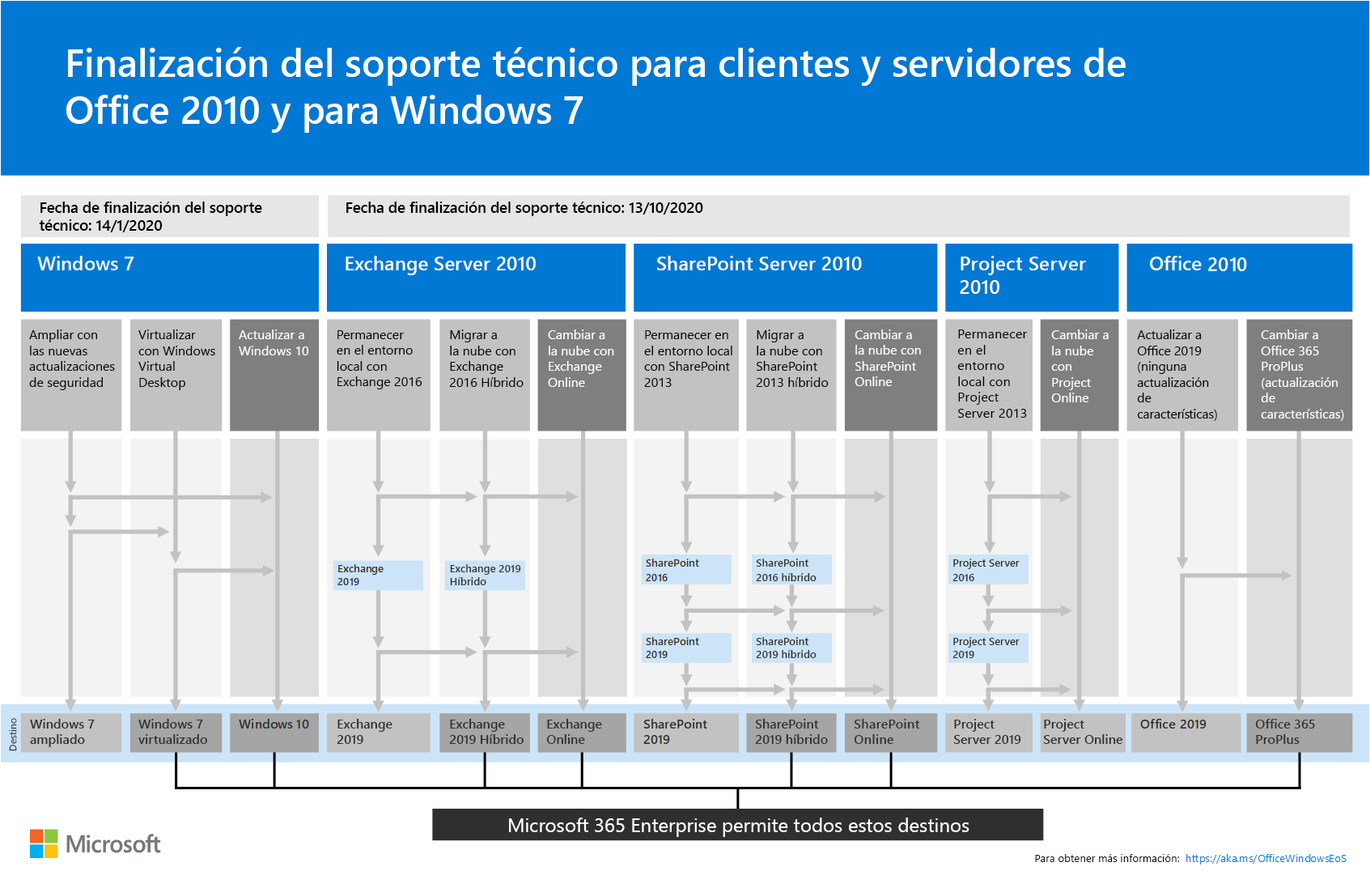
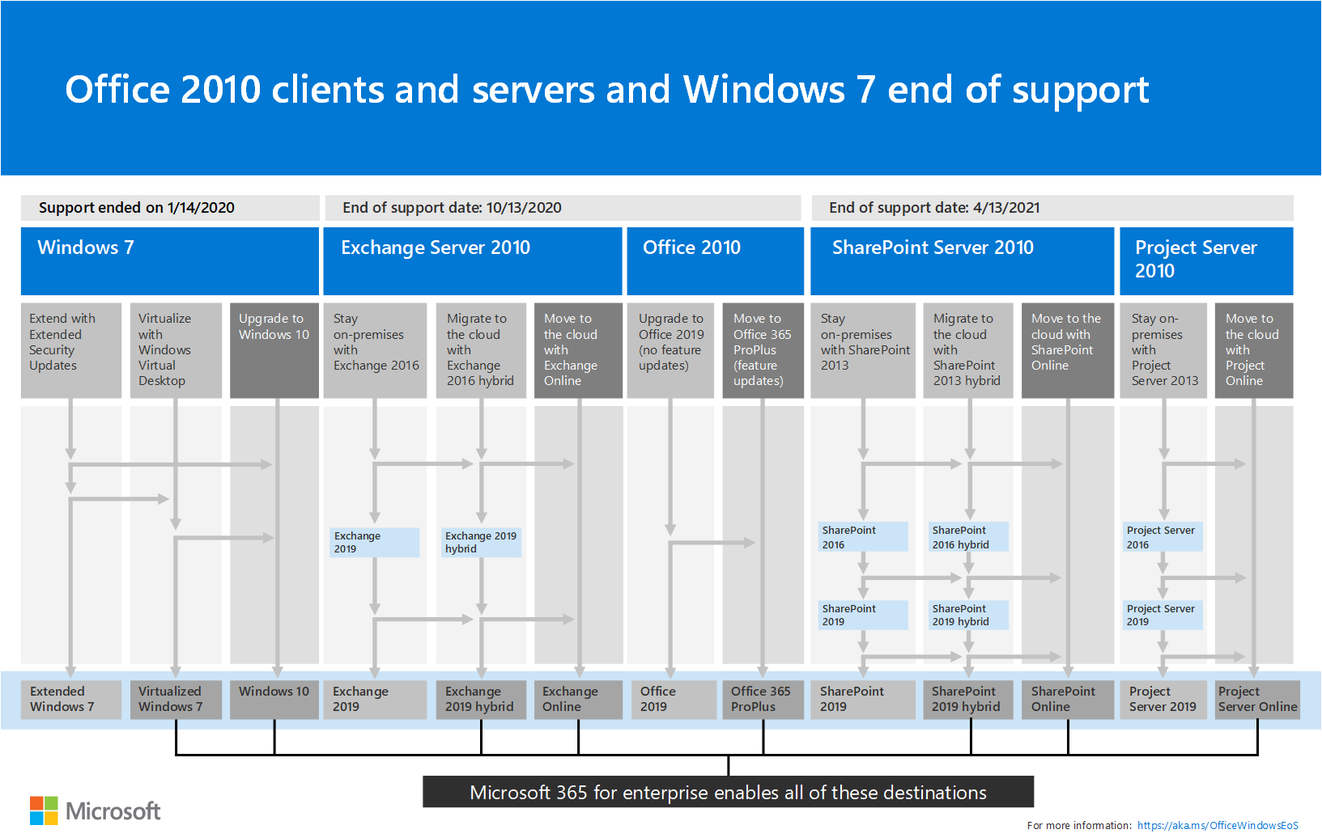
commit translated contents

Changed region(s): [[0.0, 0.1853, 0.9994, 1.0], [0.0312, 0.0618, 0.8745, 0.1544], [0.0312, 0.9575, 0.1249, 0.9884]]

diff --git a/microsoft-365/admin/security-and-compliance/multi-factor-authentication-plan.md b/microsoft-365/admin/security-and-compliance/multi-factor-authentication-plan.md
@@ -20,16 +20,16 @@ search.appverid:
 ms.assetid: 043807b2-21db-4d5c-b430-c8a6dee0e6ba
 ROBOTS: NOINDEX, NOFOLLOW
 description: Obtenga información sobre la autenticación multifactor en Office 365 y los pasos que debe seguir para configurarla.
-ms.openlocfilehash: be3b355f4487e2df5c2e20c9911c3bb421d5f7e1
-ms.sourcegitcommit: 00ce4626e1be182c5a91210a23662c9704384efa
+ms.openlocfilehash: 715baeb0355ab203e890f2c87cf0751eff69e7f8
+ms.sourcegitcommit: dbbdeca5a6cd048e1bde9e820a8b8a0d6022c7a2
 ms.translationtype: MT
 ms.contentlocale: es-ES
-ms.lasthandoff: 04/07/2020
-ms.locfileid: "43170945"
+ms.lasthandoff: 04/14/2020
+ms.locfileid: "43504000"
 ---
 # <a name="plan-for-multi-factor-authentication-for-office-365-deployments"></a>Plan de Multi-Factor Authentication para implementaciones de Office 365
 
-La autenticación multifactor (AM) es un método de autenticación que requiere el uso de más de un método de comprobación y agrega un segundo nivel de seguridad para inicios de sesión de usuario y transacciones. Funciona exigiendo dos o más de los siguientes métodos de comprobación:
+La autenticación multifactor (AM) es un método de autenticación que requiere el uso de más de un método de comprobación y agrega un segundo nivel de seguridad para inicios de sesión de usuario y transacciones. Funciona solicitando un paso de comprobación de adición con información más allá de la contraseña de la cuenta de usuario, como por ejemplo:
   
 - Un código de acceso generado de forma aleatoria
     
@@ -39,11 +39,11 @@ La autenticación multifactor (AM) es un método de autenticación que requiere 
     
 - Un dispositivo biométrico 
     
-## <a name="multi-factor-authentication-in-office-365"></a>Autenticación multifactor en Office 365
+## <a name="mfa-in-office-365"></a>MFA en Office 365
 
-Office 365 usa la autenticación multifactor para ayudar a proporcionar la seguridad adicional y se administra desde el centro de administración de Microsoft 365. Office 365 ofrece el siguiente subconjunto de capacidades de Azure multi-factor Authentication como parte de la suscripción: 
+Office 365 usa MFA para la seguridad de inicio de sesión adicional y se puede administrar para cada cuenta de usuario individual desde el centro de administración de Microsoft 365. Office 365 ofrece el siguiente subconjunto de capacidades de Azure multi-factor Authentication como parte de su suscripción: 
   
-- La posibilidad de habilitar y exigir autenticación multifactor para usuarios finales
+- La capacidad de habilitar y exigir MFA a los usuarios finales
     
 - El uso de una aplicación móvil (en línea y de contraseña de un solo uso [OTP]) como segundo factor de autenticación
     
@@ -51,21 +51,24 @@ Office 365 usa la autenticación multifactor para ayudar a proporcionar la segur
     
 - El uso de un mensaje de servicio de mensajes cortos (SMS) como segundo factor de autenticación
     
-- Las contraseñas de aplicación de clientes que no sean de explorador (por ejemplo, el software de comunicaciones Microsoft Lync 2013)
+- Contraseñas de aplicación para clientes que no son exploradores (por ejemplo, el software de comunicaciones Microsoft Lync 2013)
     
 - Saludos predeterminados de Microsoft durante las llamadas de teléfono de autenticación
     
 Para obtener la lista completa de características adicionales, vea [la comparación de versiones de Azure Multi-Factor Authentication](https://go.microsoft.com/fwlink/?LinkId=506927). Siempre puede obtener la funcionalidad completa si compra el servicio Azure Multi-Factor Authentication. 
   
-Obtendrá un subconjunto diferente de funciones dependiendo de si tiene una implementación de solo nube para Office 365 o una implementación híbrida con inicio de sesión único y Servicios de federación de Active Directory (AD FS). 
+Obtiene un subconjunto diferente de funcionalidades en función de si tiene una identidad solo de nube o híbrida para Office 365 o la autenticación federada con los servicios de Federación de Active Directory (AD FS). 
   
-|**¿Dónde se administra el inquilino de Office 365?**|**Opciones de segundo factor de MFA**|
-|:-----|:-----|
-|Solo nube  <br/> |Azure multi-factor Authentication (texto o llamada telefónica)  <br/> |
-|Configuración híbrida, administrada localmente  <br/> | Si administra identidades de usuario locales, tiene las siguientes opciones:  <br/>  Tarjeta inteligente física o virtual (al usar AD FS)  <br/> [Azure multi-factor Authentication](https://go.microsoft.com/fwlink/p/?LinkId=526677) (módulo para AD FS)  <br/>  Autenticación multifactor de Azure Active Directory (Azure AD)  <br/> |
+|**¿Dónde se administra el inquilino de Office 365?** | **Opciones de segundo factor de MFA**|
+
+|:-----|:-----| | Solo nube  <br/> | Azure multi-factor Authentication (texto o llamada telefónica)  <br/> | | Configuración híbrida, administrada localmente  <br/> | Si administra la identidad de usuario local, tiene las siguientes opciones:  <br/>  Tarjeta inteligente física o virtual (al usar AD FS)  <br/> [Azure multi-factor Authentication](https://go.microsoft.com/fwlink/p/?LinkId=526677) (módulo para AD FS)  <br/>  Autenticación multifactor de Azure Active Directory (Azure AD)  <br/> |
    
   
-En la siguiente figura se muestra cómo las aplicaciones de dispositivo de Office 2013 actualizadas (en Windows) permiten a los usuarios iniciar sesión con MFA. Las aplicaciones de dispositivo de Office 2013 admiten la autenticación multifactor mediante el uso de la [biblioteca de autenticación de Active Directory (Adal)](https://go.microsoft.com/fwlink/p/?LinkId=526684). Azure AD hospeda una página web donde los usuarios pueden iniciar sesión. El proveedor de identidades puede ser Azure AD o un proveedor de identidades federadas como AD FS. La autenticación con usuarios federados sigue estos pasos:
+En la siguiente figura se muestra cómo las aplicaciones de dispositivo de Office 2013 actualizadas (en Windows) permiten a los usuarios iniciar sesión con MFA. 
+
+![Autenticación moderna para las aplicaciones para dispositivo de Office 2013.](../../media/dc37645c-b899-4715-b162-d7653bd0aebd.png)
+
+Las aplicaciones de dispositivo de Office 2013 admiten la autenticación multifactor mediante el uso de la [biblioteca de autenticación de Active Directory (Adal)](https://go.microsoft.com/fwlink/p/?LinkId=526684). Azure AD hospeda una página web donde los usuarios pueden iniciar sesión. El proveedor de identidades puede ser Azure AD o un proveedor de identidades federadas como AD FS. La autenticación con usuarios federados sigue estos pasos:
   
 1. Azure AD redirige al usuario a la página web de inicio de sesión hospedada por el proveedor de identidades de registro para el inquilino de Office 365. El proveedor de identidades se determina mediante el dominio especificado en el nombre de inicio de sesión del usuario.
     
@@ -75,11 +78,8 @@ En la siguiente figura se muestra cómo las aplicaciones de dispositivo de Offic
     
 4. Azure AD devuelve un token web de JSON (JWT) a la aplicación de dispositivo de Office y la aplicación de dispositivo se autentica mediante un JWT con Office 365. 
     
-Esto se detalla en la figura siguiente:
   
-![Autenticación moderna para las aplicaciones para dispositivo de Office 2013.](../../media/dc37645c-b899-4715-b162-d7653bd0aebd.png)
-  
-## <a name="software-requirements"></a>Requisitos de software
+## <a name="requirements-for-office-2013-client-apps"></a>Requisitos para aplicaciones cliente de Office 2013
 
 Para habilitar MAF para aplicaciones cliente de Office 2013, debe tener instalado el software siguiente (la versión indicada a continuación o una versión posterior) en función de si tiene una [Instalaciones basadas en Hacer clic y ejecutar](#click-to-run-based-installations) o una [Instalaciones basadas en MSI](#msi-based-installations).
   
@@ -91,11 +91,13 @@ Para determinar si la instalación de Office se basa en Hacer clic y ejecutar o 
     
 3. En las instalaciones basadas en Hacer clic y ejecutar de Outlook 2013, aparecerá un elemento **Opciones de actualización**. En las instalaciones basadas en MSI, no aparecerá un elemento **Opciones de actualización**. 
     
-    ![Graphic that shows how to tell if Office 2013 install is click-to-run or MSI-based](../../media/1e75143f-9e37-4e0c-9610-43a80771571e.png)
+    ![Cómo reconocer si su instalación de Office 2013 es hacer clic y ejecutar o basada en MSI](../../media/1e75143f-9e37-4e0c-9610-43a80771571e.png)
+
+Sor obtener más información, consulte el [artículo de preguntas más frecuentes sobre la autenticación moderna](https://go.microsoft.com/fwlink/p/?LinkId=530064).
   
 ### <a name="click-to-run-based-installations"></a>Instalaciones basadas en Hacer clic y ejecutar
 
-En el caso de las instalaciones basadas en Hacer clic y ejecutar, debe tener instalado el software siguiente, en la versión de archivo que se muestra a continuación o una versión de archivo posterior. Si la versión de archivo no es igual o mayor que la versión de archivo que aparece, actualícela siguiendo estos pasos.
+En el caso de las instalaciones basadas en hacer clic y ejecutar, debe tener instalado el software siguiente, con la versión de archivo que se muestra a continuación o una versión de archivo posterior. Si la versión de archivo no es igual o mayor que la versión de archivo que aparece, actualícela siguiendo estos pasos.
   
 |**Nombre del archivo**|**Ruta de instalación en el equipo**|**Versión de archivo**|
 |:-----|:-----|:-----|
@@ -121,30 +123,24 @@ En el caso de las instalaciones basadas en MSI, debe tener instalado el software
    
 ## <a name="enable-mfa"></a>Habilitar MFA
 
-Para habilitar MFA, debe completar estos procedimientos:
+Para habilitar MFA para la suscripción a Office 365, siga estos pasos:
   
-1. Habilitar clientes para autenticación moderna:
+1. Si es necesario, [habilite la autenticación moderna para Office 2013 en dispositivos Windows](enable-modern-authentication.md).
     
-  - [Habilitar autenticación moderna para Office 2013 en dispositivos Windows](enable-modern-authentication.md) . 
+2. Para la autenticación federada, configure Azure multi-factor Authentication con su servicio de directorio de terceros.
     
-  - Configurar Azure multi-factor Authentication con servicios de directorio de terceros.
+    Consulte [escenarios avanzados con la autenticación multifactor de Azure y soluciones VPN de terceros](https://docs.microsoft.com/azure/active-directory/authentication/howto-mfaserver-nps-vpn) para obtener información sobre proveedores de identidades específicos aceptados para este programa. 
     
-    Consulte los [escenarios avanzados con la autenticación multifactor de Azure y soluciones VPN de terceros](https://docs.microsoft.com/azure/active-directory/authentication/howto-mfaserver-nps-vpn) para obtener información sobre proveedores de identidades específicos aceptados para este programa. 
+3. [Configure multi-factor Authentication para Office 365](set-up-multi-factor-authentication.md).
     
-2. [Configurar autenticación multifactor para Office 365](set-up-multi-factor-authentication.md)
-    
-3. Indicar a los usuarios individuales cómo iniciar sesión por MFA: [Iniciar sesión en Office 365 con verificación en dos pasos](https://support.office.com/article/2b856342-170a-438e-9a4f-3c092394d3cb.aspx)
+4. Informe a los usuarios sobre cómo [configurar la MFA para su cuenta de usuario de Office 365](https://support.office.com/article/set-up-2-step-verification-for-office-365-ace1d096-61e5-449b-a875-58eb3d74de14). Después de configurar el método de autenticación secundario, los inicios de sesión futuros requerirán MFA.
     
 > [!IMPORTANT]
-> Si ha habilitado a los usuarios para la autenticación multifactor de Azure y tiene los dispositivos que ejecutan Office 2013 y que no están habilitados para la autenticación moderna, deberán usar AppPasswords en estos dispositivos. Aquí encontrará más información sobre AppPasswords y cuándo, dónde y cómo debe usarse: [App Passwords con Azure Multi-Factor Authentication](https://go.microsoft.com/fwlink/p/?LinkId=528178). 
+> Si ha habilitado a los usuarios para la autenticación multifactor de Azure y tiene los dispositivos que ejecutan Office 2013 y que no están habilitados para la autenticación moderna, deberán usar contraseñas de aplicación. Puede encontrar más información sobre las contraseñas de aplicación y cuándo, dónde y cómo se deben usar: las [contraseñas de aplicación con la autenticación de Azure Multi_Factor](https://go.microsoft.com/fwlink/p/?LinkId=528178). 
   
-## <a name="faq"></a>Preguntas más frecuentes
-
-[Artículo de wiki de preguntas más frecuentes sobre la autenticación moderna](https://go.microsoft.com/fwlink/p/?LinkId=530064)
+## <a name="known-issues"></a>Problemas conocidos
   
- **Problemas conocidos:**
-  
-[Autenticación moderna de Office 2013 y Office 365 ProPlus: Lo que debe saber antes de la integración](https://social.technet.microsoft.com/wiki/contents/articles/30214.office-2013-and-office-365-proplus-modern-authentication-things-to-know-before-onboarding.aspx)
+[Office 2013 y Office 365 ProPlus: autenticación moderna: aspectos que deben conocerse antes de la incorporación](https://social.technet.microsoft.com/wiki/contents/articles/30214.office-2013-and-office-365-proplus-modern-authentication-things-to-know-before-onboarding.aspx)
   
  **Solución de problemas de Azure Multi-Factor Authentication**
   

diff --git a/microsoft-365/admin/security-and-compliance/set-up-multi-factor-authentication.md b/microsoft-365/admin/security-and-compliance/set-up-multi-factor-authentication.md
@@ -22,12 +22,12 @@ search.appverid:
 ms.assetid: 8f0454b2-f51a-4d9c-bcde-2c48e41621c6
 description: Aprenda a usar valores predeterminados para configurar la autenticación multifactor para los usuarios de Office 365.
 monikerRange: o365-worldwide
-ms.openlocfilehash: 5f468f040ca88ab4ab2bc198d0d7550bf2e7f4af
-ms.sourcegitcommit: 8a88b7526e6a3a907f33a8567e0d25b74fe60d80
+ms.openlocfilehash: 7e48f72f2fd8cfc5042bd15f994cc98bfa5fca8c
+ms.sourcegitcommit: dbbdeca5a6cd048e1bde9e820a8b8a0d6022c7a2
 ms.translationtype: MT
 ms.contentlocale: es-ES
-ms.lasthandoff: 04/09/2020
-ms.locfileid: "43204027"
+ms.lasthandoff: 04/14/2020
+ms.locfileid: "43503976"
 ---
 # <a name="set-up-multi-factor-authentication"></a>Configurar la autenticación multifactor
   
@@ -37,6 +37,7 @@ ms.locfileid: "43204027"
 Todas las nuevas suscripciones de Office 365 Empresa o Microsoft 365 Empresa tendrán activados automáticamente los valores predeterminados de seguridad. Esto significa que todos los usuarios tendrán que configurar MFA e instalar la aplicación Microsoft Authenticator en su dispositivo móvil. Para obtener más información, vea [Configurar la verificación en dos pasos de Office 365](https://support.office.com/article/ace1d096-61e5-449b-a875-58eb3d74de14).  
 
 Los nueve roles de administrador que se indican a continuación serán necesarios para realizar una autenticación adicional cada vez que inicien sesión:
+
 - Administrador global
 - Administrador de SharePoint
 - Administrador de Exchange
@@ -47,7 +48,7 @@ Los nueve roles de administrador que se indican a continuación serán necesario
 - Administrador de usuarios
 - Administrador de autenticación
 
-Se pedirá a todos los demás usuarios una autenticación adicional cuando sea necesario. Para obtener más información, vea [¿Qué son los valores predeterminados de seguridad?](https://docs.microsoft.com/azure/active-directory/fundamentals/concept-fundamentals-security-defaults)
+Se pedirá a todos los demás usuarios una autenticación adicional cuando sea necesario. Para obtener más información, vea [¿Qué son los valores predeterminados de seguridad?](https://docs.microsoft.com/azure/active-directory/fundamentals/concept-fundamentals-security-defaults).
 
 > [!NOTE]
 > Debe ser un administrador global de Office 365 para configurar o modificar la MFA. <br><br>
@@ -61,8 +62,7 @@ Si ha configurado previamente MFA con directivas de línea base, [debe desactiva
 ## <a name="manage-security-defaults"></a>Administrar los valores predeterminados de seguridad
 
 1. Inicie sesión en el [Centro de administración](https://go.microsoft.com/fwlink/p/?linkid=834822) con sus credenciales de administrador global.
-2. Vaya a [Propiedades en Azure Active Directory](https://portal.azure.com/#blade/Microsoft_AAD_IAM/ActiveDirectoryMenuBlade/Properties).
-
+2. Vaya a [Propiedades de Azure Active Directory](https://portal.azure.com/#blade/Microsoft_AAD_IAM/ActiveDirectoryMenuBlade/Properties).
 3. En la parte inferior de la página, elija **Administrar los valores predeterminados de seguridad**.
 4. Elija **sí** para habilitar los valores predeterminados de seguridad o **no** para deshabilitar los valores predeterminados de seguridad y, después, elija **Guardar**.
 
@@ -74,9 +74,9 @@ Si ha configurado previamente MFA con directivas de línea base, [debe desactiva
 
 3. En la **seguridad | **Página de introducción, elija **acceso condicional**. 
 
-4. En la página **Directivas de acceso condicional de Azure Portal:**, elija cada directiva de línea base que esté **Activada** y establézcala como **Desactivada**.
+4. En la página **acceso condicional-directivas** , elija cada directiva de línea base que esté **activada**y, a continuación, establezca el valor en **desactivado**.
 5. Vaya a la página [Propiedades en Azure Active Directory](https://portal.azure.com/#blade/Microsoft_AAD_IAM/ActiveDirectoryMenuBlade/Properties).
-6. En la parte inferior de la página, elija **Administrar los valores predeterminados de seguridad** y en el panel **Habilitar valores predeterminados de seguridad**, establezca **Habilitar valores predeterminados de seguridad** como **Sí**. 
+6. En la parte inferior de la página, **Elija administrar los valores predeterminados de seguridad**y, en el panel **Habilitar valores** predeterminados de seguridad, establezca la alternancia **Habilitar valores predeterminados de seguridad** en **sí**y, después, elija **Guardar**. 
 
 ## <a name="enable-modern-authentication-for-your-organization"></a>Habilitar la autenticación moderna para la organización
 
@@ -84,12 +84,13 @@ Todas las aplicaciones de cliente de Office 2016 admiten la MFA mediante el uso 
 
 1. Para habilitar la autenticación moderna, en el [centro de administración](https://go.microsoft.com/fwlink/p/?linkid=834822), seleccione **Configuración** \>**Configuración **y después, en la pestaña **Servicios** elija **Autenticación moderna** en la lista.
 
-2. Marque la casilla **habilitar autenticación moderna** en el panel de **autenticación moderna**. 
+2. Active la casilla **Habilitar autenticación moderna (recomendada)** en el panel de **autenticación moderna** y, a continuación, elija **Guardar cambios**. 
 
     ![En el Panel de autenticación moderna la casilla de verificación está marcada en habilitar](../../media/enablemodernauth.png)
     
 > [!IMPORTANT]
 > A partir de agosto de 2017, todos los nuevos inquilinos de Office 365 que incluyen Skype Empresarial online y Exchange online tienen la autenticación moderna habilitada de manera predeterminada. Para comprobar el estado de su autenticación moderna para Skype Empresarial online, puede utilizar el PowerShell de Skype Empresarial online con credenciales de Administrador Global. Ejecute Get-CsOAuthConfiguration para comprobar la salida de -ClientADALAuthOverride. Si -ClientADALAuthOverride está en la opción "Permitir", significa que la autenticación moderna está activada.
+
 Para comprobar el estado de su MA para Exchange Online, visite [habilite la autenticación moderna en Exchange Online](https://docs.microsoft.com/exchange/clients-and-mobile-in-exchange-online/enable-or-disable-modern-authentication-in-exchange-online).
 
 ## <a name="related-articles"></a>Artículos relacionados

diff --git a/microsoft-365/enterprise/microsoft-365-overview.md b/microsoft-365/enterprise/microsoft-365-overview.md
@@ -13,12 +13,12 @@ localization_priority: Normal
 ms.collection: M365-subscription-management
 ms.custom: it-pro
 description: Proporciona una introducción a los componentes, planes y rutas de implementación de Microsoft 365 para empresas.
-ms.openlocfilehash: 043953ddfd38a9ef5119546ec5672dd46e8acb53
-ms.sourcegitcommit: 053d42480d8aa3792ecb0027ddd53d383a029474
+ms.openlocfilehash: 6b8d2aa7fd8455acde1d49a6ed7f7c93c5235652
+ms.sourcegitcommit: dbbdeca5a6cd048e1bde9e820a8b8a0d6022c7a2
 ms.translationtype: MT
 ms.contentlocale: es-ES
-ms.lasthandoff: 04/07/2020
-ms.locfileid: "43175195"
+ms.lasthandoff: 04/14/2020
+ms.locfileid: "43504096"
 ---
 # <a name="microsoft-365-for-enterprise-overview"></a>Información general de Microsoft 365 Enterprise
 
@@ -84,15 +84,14 @@ Puede [descargar este póster](https://github.com/MicrosoftDocs/microsoft-365-do
 
 ## <a name="avoid-end-of-support-for-windows-7-and-office-2010-clients-and-servers"></a>Evite el fin de soporte para clientes y servidores de Windows 7 y Office 2010
 
-Los siguientes productos han llegado al final del soporte técnico el **14 de enero de 2020**:
-
-- [Windows 7](https://aka.ms/win7upgrade)
+[Windows 7](https://aka.ms/win7upgrade) ha llegado al final del soporte técnico el **14 de enero de 2020**.
 
 Los siguientes productos alcanzarán el final del soporte técnico el **13 de octubre de 2020**:
 
 - [Office 2010](https://docs.microsoft.com/DeployOffice/office-2010-end-support-roadmap)
 - [Exchange Server 2010](https://docs.microsoft.com/office365/enterprise/exchange-2010-end-of-support)
-- [SharePoint Server 2010](https://docs.microsoft.com/office365/enterprise/upgrade-from-sharepoint-2010)
+
+[SharePoint Server 2010](https://docs.microsoft.com/office365/enterprise/upgrade-from-sharepoint-2010) llegará al final del soporte técnico el **13 de abril de 2021**.
 
 Para obtener un resumen visual de las opciones de actualización, migración y desplazamiento a la nube de estos productos, vea el [póster de fin de soporte técnico.](../media/migration-microsoft-365-enterprise-workload/Office2010Windows7EndOfSupport.pdf)
 
@@ -146,10 +145,10 @@ Para obtener más información sobre la implementación, consulte How:
 |||
 
 
-## <a name="next-step"></a>Siguiente paso
+## <a name="next-step"></a>Paso siguiente
 
 Si va a realizar la implementación usted mismo, inicie el [viaje de la implementación de Microsoft 365 para empresas](deploy-microsoft-365-enterprise.md).
 
-## <a name="see-also"></a>Vea también
+## <a name="see-also"></a>Recursos adicionales
 
 [Página de producto de Microsoft 365 para empresas](https://www.microsoft.com/microsoft-365/enterprise)

diff --git a/microsoft-365/security/mtp/preview.md b/microsoft-365/security/mtp/preview.md
@@ -19,12 +19,12 @@ ms.topic: conceptual
 search.appverid:
 - MOE150
 - MET150
-ms.openlocfilehash: f04d2e587a55a680a65425b34a88896466e09be3
-ms.sourcegitcommit: 9ca28ae8f7804eb488cf76ca4b09fe88787e0a49
+ms.openlocfilehash: c4facaac82ff8486c0c3a846e4f577c7888a3161
+ms.sourcegitcommit: dbbdeca5a6cd048e1bde9e820a8b8a0d6022c7a2
 ms.translationtype: MT
 ms.contentlocale: es-ES
-ms.lasthandoff: 04/02/2020
-ms.locfileid: "43113464"
+ms.lasthandoff: 04/14/2020
+ms.locfileid: "43503988"
 ---
 # <a name="microsoft-threat-protection-preview-features"></a>Características preliminares de Microsoft Threat Protection
 
@@ -50,12 +50,13 @@ Active la configuración de la experiencia de vista previa para que sea una de l
 
 3. Opciones de **vista previa** > Active las**características de vista previa**. 
 
-3. Haga clic en **Guardar**.
+3. Seleccione **Guardar**.
 
 Sabrá que tiene características de vista previa activadas cuando vea que está activada la casilla **de verificación Activar las características de vista previa** . 
 
-
-
 ## <a name="preview-features"></a>Versión preliminar de las características
-Esta sección se actualizará con una lista de las características que se encuentran en la versión preliminar a medida que estén disponibles para que las pruebe. 
+Las siguientes características y mejoras están disponibles actualmente en la versión preliminar:
 
+- **[Detecciones personalizadas](custom-detections-overview.md)** : Use consultas de búsqueda avanzada para crear reglas que busquen automáticamente la actividad de violaciones y otros elementos de interés a intervalos regulares. Coincidencias con las alertas del desencadenador de consultas y las acciones de respuesta especificadas.
+
+- **[Tablas de identidad y aplicación](advanced-hunting-schema-tables.md)** : obtenga visibilidad de los eventos de autenticación, las consultas de Active Directory y la actividad relacionada con la aplicación con las tablas [IdentityLogonEvents](advanced-hunting-identitylogonevents-table.md), [IdentityQueryEvents](advanced-hunting-identityqueryevents-table.md)y [AppFileEvents](advanced-hunting-appfileevents-table.md) en el esquema de búsqueda avanzada.

diff --git a/microsoft-365/business/support/transition-csp-subscription.md b/microsoft-365/business/support/transition-csp-subscription.md
@@ -1,5 +1,5 @@
 ---
-title: Transición a una suscripción de CSP de Microsoft 365 Empresa 
+title: Transición a una suscripción de CSP de Microsoft 365 Empresa
 description: Descubra cómo puede realizar la transición de una suscripción de CSP de Microsoft 365 Business para obtener una vista previa a la disponibilidad general (GA).
 author: jasongroce
 f1.keywords:
@@ -13,12 +13,12 @@ localization_priority: Normal
 audience: microsoft-business 
 keywords: Microsoft 365 Empresa, Microsoft 365, SMB, transición suscripción de CSP
 ms.date: 11/01/2017
-ms.openlocfilehash: 77b7b474a5ad17db58e283ea61b074c959905d1b
-ms.sourcegitcommit: 217de0fc54cbeaea32d253f175eaf338cd85f5af
+ms.openlocfilehash: 0a30d80ad5217868fec81866ab1dc41013917e99
+ms.sourcegitcommit: dbbdeca5a6cd048e1bde9e820a8b8a0d6022c7a2
 ms.translationtype: MT
 ms.contentlocale: es-ES
-ms.lasthandoff: 03/07/2020
-ms.locfileid: "42560788"
+ms.lasthandoff: 04/14/2020
+ms.locfileid: "43504115"
 ---
 # <a name="transition-a-microsoft-365-business-csp-subscription"></a>Transición a una suscripción de CSP de Microsoft 365 Empresa
 
